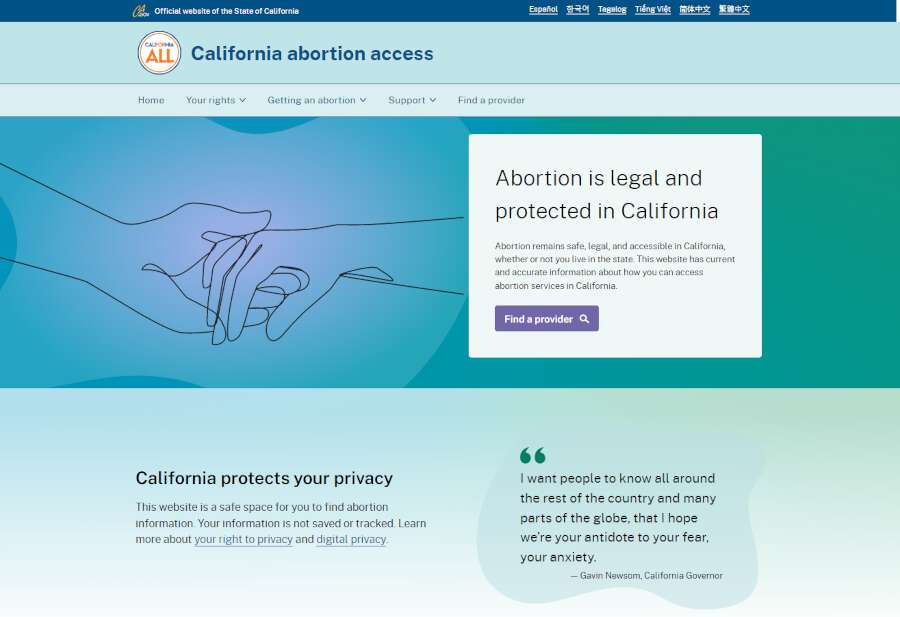
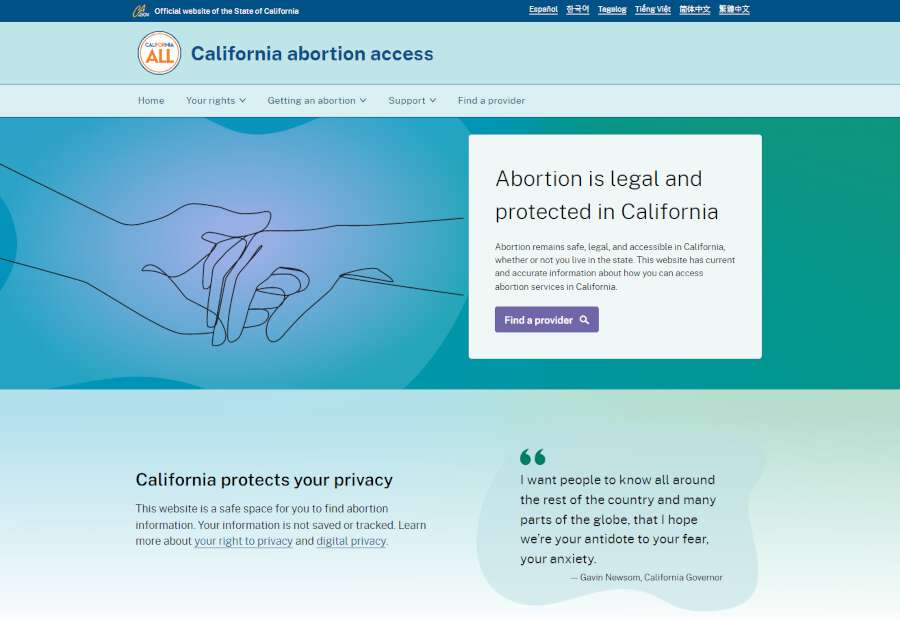
updating image and matching aspect

diff --git a/src/_includes/modules/two-cards.html b/src/_includes/modules/two-cards.html
@@ -53,7 +53,7 @@
           <img
             class="img-fluid w-100"
             src="/images/homepage-sample-abortion.jpg"
-            style="aspect-ratio: 450 / 309"
+            style="aspect-ratio: 450 / 310"
             alt="Homepage screenshot of California's Abortion Access Portal website." />
         </picture>
       </div>
